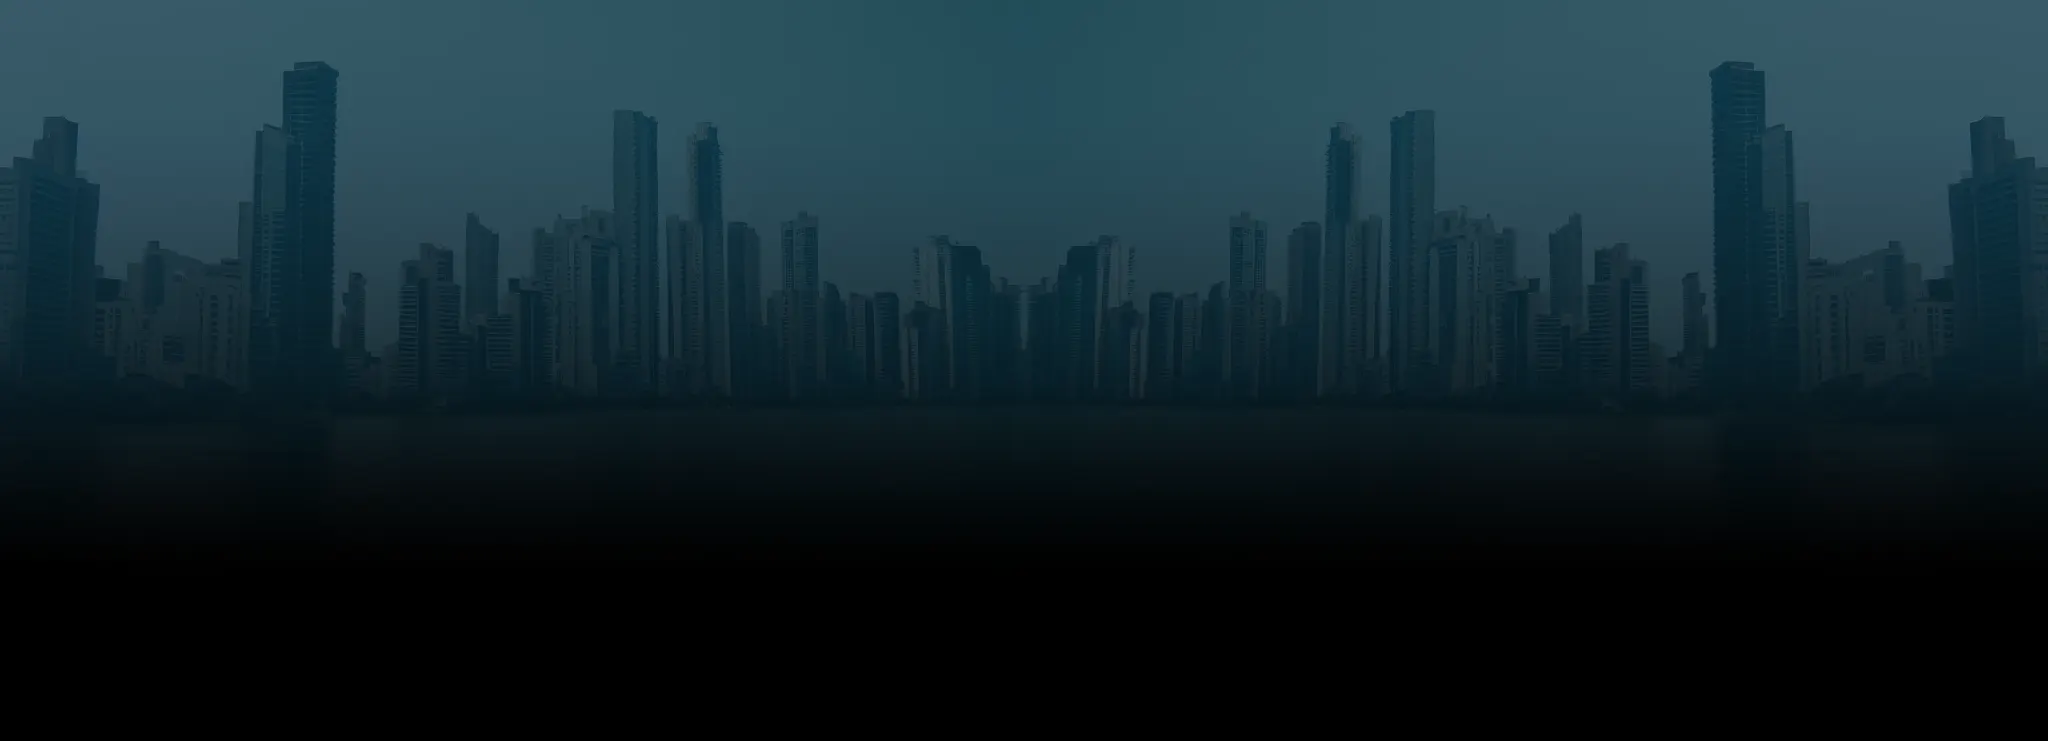
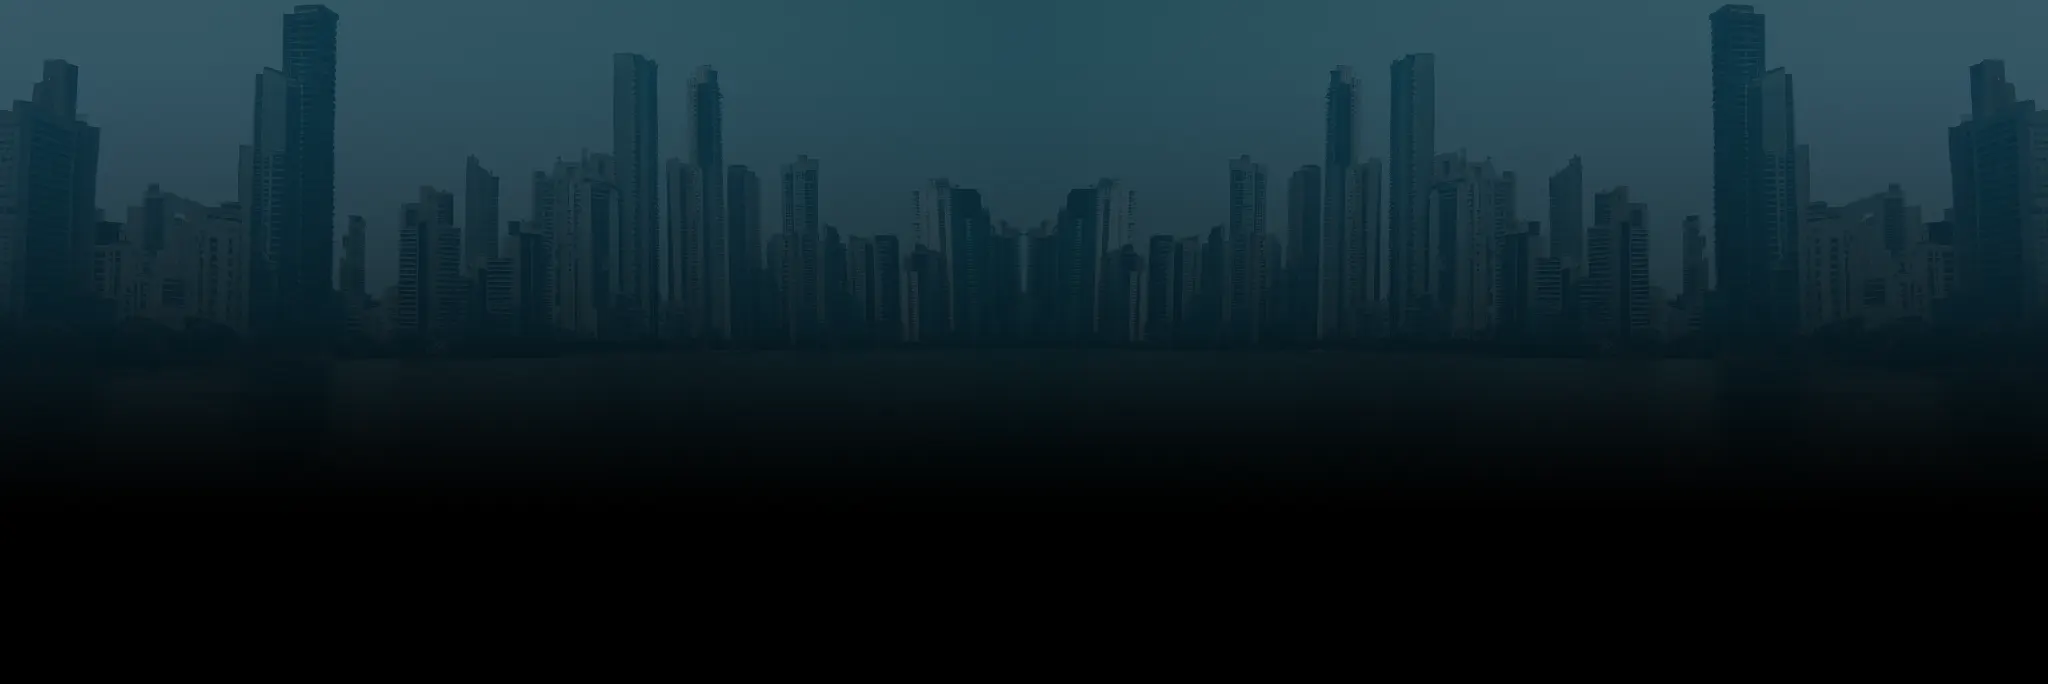
add componentAnimation

diff --git a/src/app/app.module.ts b/src/app/app.module.ts
@@ -1,5 +1,6 @@
 import { NgModule } from '@angular/core';
 import { BrowserModule } from '@angular/platform-browser';
+import { BrowserAnimationsModule } from '@angular/platform-browser/animations'; 
 import { FormsModule } from '@angular/forms';
 
 
@@ -7,6 +8,8 @@ import { HeaderComponent } from './shared/header/header.component';
 import { FooterComponent } from './shared/footer/footer.component'; 
 
 import { ContainComponent } from './container/contain/contain.component';
+import { AccordionComponent } from './container/accordion/accordion.component';
+
 import { LoreComponent } from './view/lore/lore.component';
 import { NftExplicationComponent } from './view/nft-explication/nft-explication.component';
 import { AboutUsComponent } from './view/about-us/about-us.component';
@@ -19,14 +22,17 @@ import { SocialMediasComponent } from './view/social-medias/social-medias.compon
 import { LoginRegisterComponent } from './view/login-register/login-register.component';
 import { NotfoundComponent } from './view/notfound/notfound.component';
 import { HomeComponent } from './view/home/home.component';
+import { SubCategoryShowComponent } from './view/sub-category/sub-category-show/sub-category-show.component';
+
+
+import { CreatureAddFormComponent } from './form/creature-add-form/creature-add-form.component';
+import { RegisterFormComponent } from './form/register-form/register-form.component';
+
+import { TextDisplayComponent } from './tools/text-display/text-display.component';
+import { StarAnimationComponent } from './tools/star-animation/star-animation.component';
 
 import { AppComponent } from './app.component';
 import { AppRoutingModule } from './app-routing.module';
-import { AccordionComponent } from './container/accordion/accordion.component';
-import { CreatureAddFormComponent } from './form/creature-add-form/creature-add-form.component';
-import { TextDisplayComponent } from './tools/text-display/text-display.component';
-import { RegisterFormComponent } from './form/register-form/register-form.component';
-import { SubCategoryShowComponent } from './view/sub-category/sub-category-show/sub-category-show.component';
 
 
 @NgModule({
@@ -52,11 +58,13 @@ import { SubCategoryShowComponent } from './view/sub-category/sub-category-show/
     TextDisplayComponent,
     RegisterFormComponent,
     SubCategoryShowComponent,
+    StarAnimationComponent,
   ],
   imports: [
+    BrowserAnimationsModule,
     BrowserModule,
     AppRoutingModule,
-    FormsModule
+    FormsModule,
   ],
   providers: [],
   bootstrap: [AppComponent]

diff --git a/src/app/tools/star-animation/star-animation.component.ts b/src/app/tools/star-animation/star-animation.component.ts
@@ -1,0 +1,39 @@
+import { Component } from '@angular/core';
+
+@Component({
+  selector: 'app-star-animation',
+  templateUrl: './star-animation.component.html',
+  styleUrls: ['./star-animation.component.scss']
+})
+export class StarAnimationComponent {
+  stars: any[] = [];
+  isRainingStars: boolean = false;
+
+  constructor() {
+    for (let i = 0; i < 50; i++) {
+      this.stars.push({ isSparkling: false });
+    }
+  }
+
+  moveStars(event: MouseEvent) {
+    this.stars.forEach((star) => {
+
+      const x = event.clientX;
+      const y = event.clientY;
+      const rect = star.element.getBoundingClientRect();
+      const starX = rect.left + rect.width / 2;
+      const starY = rect.top + rect.height / 2;
+      const distance = Math.sqrt((x - starX) ** 2 + (y - starY) ** 2);
+
+
+      star.isSparkling = distance < 50;
+    });
+  }
+  triggerRain() {
+    this.isRainingStars = true;
+    setTimeout(() => {
+      this.isRainingStars = false;
+    }, 2000);
+  }
+
+}

diff --git a/src/app/tools/star-animation/star-animation.component.scss b/src/app/tools/star-animation/star-animation.component.scss
@@ -1,0 +1,48 @@
+.star-container {
+    position: relative;
+    width: 100%;
+    height: 100vh;
+    overflow: hidden;
+}
+
+.star {
+    position: absolute;
+    background-color: #fff;
+    border-radius: 50%;
+    width: 10px;
+    height: 10px;
+    transition: transform 0.3s, opacity 0.3s;
+
+    &.rain {
+        animation: rain-animation 2s linear infinite;
+    }
+
+}
+
+.sparkle {
+    animation: sparkle-animation 0.5s infinite;
+}
+
+@keyframes sparkle-animation {
+    0% {
+        transform: scale(1);
+        opacity: 1;
+    }
+
+    50% {
+        transform: scale(1.2);
+        opacity: 0.8;
+    }
+
+    100% {
+        transform: scale(1);
+        opacity: 1;
+    }
+}
+
+@keyframes rain-animation {
+    to {
+        transform: translateY(100vh); 
+        opacity: 0; 
+    }
+}

diff --git a/src/app/tools/star-animation/star-animation.component.spec.ts b/src/app/tools/star-animation/star-animation.component.spec.ts
@@ -1,0 +1,21 @@
+import { ComponentFixture, TestBed } from '@angular/core/testing';
+
+import { StarAnimationComponent } from './star-animation.component';
+
+describe('StarAnimationComponent', () => {
+  let component: StarAnimationComponent;
+  let fixture: ComponentFixture<StarAnimationComponent>;
+
+  beforeEach(() => {
+    TestBed.configureTestingModule({
+      declarations: [StarAnimationComponent]
+    });
+    fixture = TestBed.createComponent(StarAnimationComponent);
+    component = fixture.componentInstance;
+    fixture.detectChanges();
+  });
+
+  it('should create', () => {
+    expect(component).toBeTruthy();
+  });
+});

diff --git a/src/app/tools/star-animation/star-animation.component.html b/src/app/tools/star-animation/star-animation.component.html
@@ -1,0 +1,9 @@
+<div class="star-container" (mousemove)="moveStars($event)">
+    <div
+      *ngFor="let star of stars"
+      [ngClass]="{ 'sparkle': star.isSparkling, 'rain': isRainingStars }" 
+      class="star"></div>
+  </div>
+  
+  <button (click)="triggerRain()">Déclencher la pluie d'étoiles</button>
+  

diff --git a/src/app/app.component.scss b/src/app/app.component.scss
@@ -3,8 +3,8 @@
     background-image: url(../assets/design/background.webp);
     display: flex;
     background-size: cover;
-    background-position: right;
+    background-position: top right;
     background-repeat: no-repeat;
-
+    height: 100vh;
 
 }

diff --git a/src/app/app.component.html b/src/app/app.component.html
@@ -1,6 +1,9 @@
 <div class="allBody">
+   
     
     <app-header *ngIf="showHeaderAndFooter"></app-header>
     <app-footer *ngIf="showHeaderAndFooter"></app-footer>
+  
     <router-outlet></router-outlet>
+    
 </div>

diff --git a/src/app/app.component.ts b/src/app/app.component.ts
@@ -27,4 +27,5 @@ export class AppComponent implements OnInit {
         }
       });
   }
+  
 }
